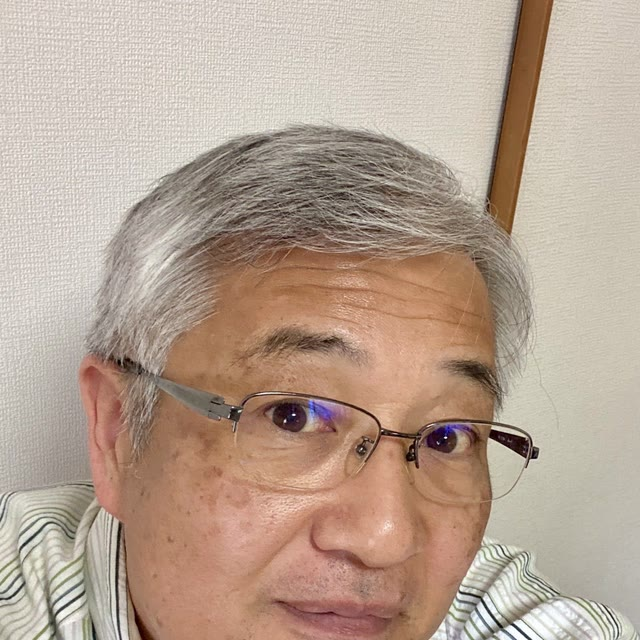
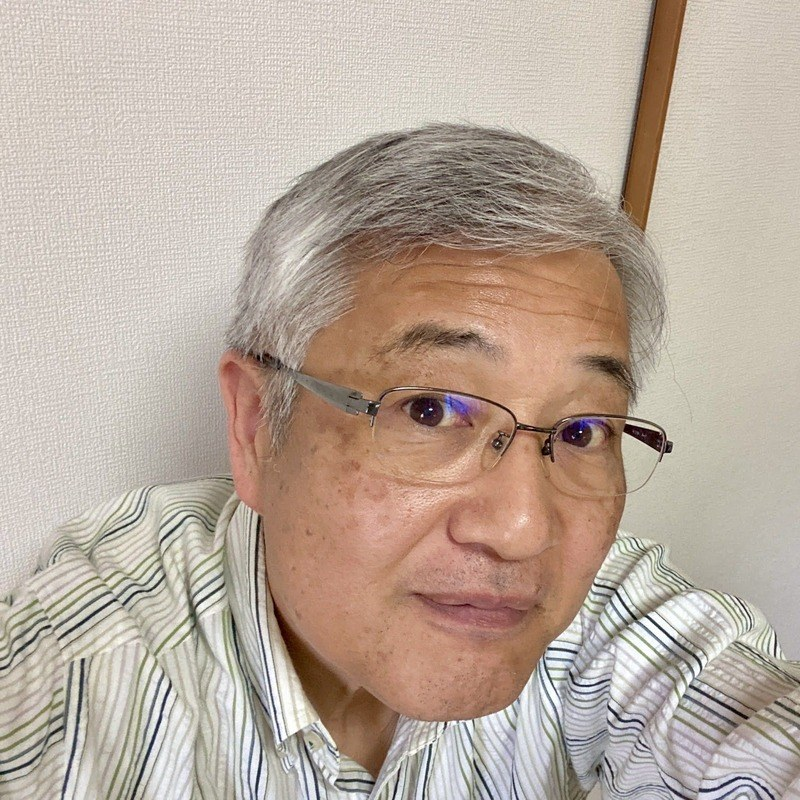
ペアレントトレーニング: 近影の切り直しと進学相談を追加
加藤近影は頭頂が切れない構図に差し替え。担当欄の表示位置も調整。
相談できることに進学相談を追加。

diff --git a/leo/parent-training/index.html b/leo/parent-training/index.html
@@ -13,7 +13,7 @@
 <link rel="preconnect" href="https://fonts.googleapis.com"><link rel="preconnect" href="https://fonts.gstatic.com" crossorigin>
 <link href="https://fonts.googleapis.com/css2?family=Inter:wght@400;500;600&family=Noto+Sans+JP:wght@400;500;600&display=swap" rel="stylesheet">
 <link rel="stylesheet" href="../../assets/site.css">
-<script type="application/ld+json">{"@context": "https://schema.org", "@graph": [{"@type": "Organization", "@id": "https://www.psr-seishinkai.org/#org", "name": "一般社団法人 心理社会的リハビリテーション・星心会", "alternateName": "星心会", "url": "https://www.psr-seishinkai.org/", "telephone": "059-315-0697", "address": {"@type": "PostalAddress", "postalCode": "512-8048", "addressCountry": "JP", "addressRegion": "三重県", "addressLocality": "四日市市", "streetAddress": "山城町59-4"}, "areaServed": ["四日市市", "三重県", "名古屋市", "愛知県"], "sameAs": ["https://x.com/gcbfhq", "https://www.instagram.com/psr_seishinkai/", "https://www.threads.com/@psr_seishinkai"], "logo": "https://www.psr-seishinkai.org/img/logo_black.svg"}, {"@type": "Service", "name": "ペアレントトレーニング", "description": "アドラー心理学に基づくペアレントトレーニング「アドペア」です。", "parentOrganization": {"@id": "https://www.psr-seishinkai.org/#org"}, "telephone": "059-315-0697", "url": "https://www.psr-seishinkai.org/leo/parent-training/"}, {"@type": "FAQPage", "mainEntity": [{"@type": "Question", "name": "レオを利用していなくても相談できますか？", "acceptedAnswer": {"@type": "Answer", "text": "相談できます。1回4,000円です。"}}, {"@type": "Question", "name": "どんなことを相談できますか？", "acceptedAnswer": {"@type": "Answer", "text": "子育てのこと、学校とのかかわり、家族関係などをお聴きします。"}}, {"@type": "Question", "name": "発達検査と組み合わせられますか？", "acceptedAnswer": {"@type": "Answer", "text": "組み合わせられます。"}}]}]}</script>
+<script type="application/ld+json">{"@context": "https://schema.org", "@graph": [{"@type": "Organization", "@id": "https://www.psr-seishinkai.org/#org", "name": "一般社団法人 心理社会的リハビリテーション・星心会", "alternateName": "星心会", "url": "https://www.psr-seishinkai.org/", "telephone": "059-315-0697", "address": {"@type": "PostalAddress", "postalCode": "512-8048", "addressCountry": "JP", "addressRegion": "三重県", "addressLocality": "四日市市", "streetAddress": "山城町59-4"}, "areaServed": ["四日市市", "三重県", "名古屋市", "愛知県"], "sameAs": ["https://x.com/gcbfhq", "https://www.instagram.com/psr_seishinkai/", "https://www.threads.com/@psr_seishinkai"], "logo": "https://www.psr-seishinkai.org/img/logo_black.svg"}, {"@type": "Service", "name": "ペアレントトレーニング", "description": "アドラー心理学に基づくペアレントトレーニング「アドペア」です。", "parentOrganization": {"@id": "https://www.psr-seishinkai.org/#org"}, "telephone": "059-315-0697", "url": "https://www.psr-seishinkai.org/leo/parent-training/"}, {"@type": "FAQPage", "mainEntity": [{"@type": "Question", "name": "レオを利用していなくても相談できますか？", "acceptedAnswer": {"@type": "Answer", "text": "相談できます。1回4,000円です。"}}, {"@type": "Question", "name": "どんなことを相談できますか？", "acceptedAnswer": {"@type": "Answer", "text": "子育てのこと、学校とのかかわり、家族関係、進学相談などをお聴きします。"}}, {"@type": "Question", "name": "発達検査と組み合わせられますか？", "acceptedAnswer": {"@type": "Answer", "text": "組み合わせられます。"}}]}]}</script>
 </head>
 <body>
 <header class="gh"><a class="logo" href="../../"><img src="../../img/mark_black.svg" alt=""><span>星心会</span></a>
@@ -25,7 +25,7 @@
 <section class="hero short"><div class="bg" style="background-image:url(../../img/pt-classroom.jpg);background-position:50% 50%"></div><div class="hin"><p class="en">PARENT TRAINING</p><h1 class="long">ペアレントトレーニング</h1>
 <p class="copy"><span>アドラー心理学で、</span><span>育児のモヤモヤを、</span><span>解決します。</span></p><p class="sub">アドラー心理学に基づくペアレントトレーニング「アドペア」です。カウンセラーが、あなたの話を丁寧にお聴きします。</p></div>
 <p class="acc"></p></section><div class="dark"><section class="blk wide" id="what"><div class="h"><span class="en">WHAT</span><h2>相談できる<br>こと</h2><p>押すと内容が表示されます。</p></div>
-    <div><div class="chips"><button data-a="毎日の関わり方や、お子さまの気になる様子についてお話しください。">子育てのこと</button><button data-a="先生とのやりとりや、登校のことなど、学校との関係についてお聴きします。">学校とのかかわり</button><button data-a="ご家族の間のことも、あわせてご相談いただけます。">家族関係</button></div><p class="ans" style="white-space:pre-line">押すと内容が表示されます。</p></div></section></div><section class="blk" id="flow"><div class="h"><span class="en">PROCESS</span><h2>進め方</h2><p>ボタンで一段ずつ進みます。</p></div>
+    <div><div class="chips"><button data-a="毎日の関わり方や、お子さまの気になる様子についてお話しください。">子育てのこと</button><button data-a="先生とのやりとりや、登校のことなど、学校との関係についてお聴きします。">学校とのかかわり</button><button data-a="ご家族の間のことも、あわせてご相談いただけます。">家族関係</button><button data-a="中学・高校など、次の学校への進み方や選び方の迷いについてお聴きします。">進学相談</button></div><p class="ans" style="white-space:pre-line">押すと内容が表示されます。</p></div></section></div><section class="blk" id="flow"><div class="h"><span class="en">PROCESS</span><h2>進め方</h2><p>ボタンで一段ずつ進みます。</p></div>
     <div class="steps" data-cta="#contact"><script type="application/json">[["CONTACT", "予約", "電話またはLINEでご予約ください。"], ["SESSION", "相談", "カウンセラーが、お話を丁寧にお聴きします。"], ["HOME", "家庭で", "話して整理したことを、ご家庭で試します。"]]</script><div class="sbar"></div>
     <div class="card"><div class="num"></div><div class="k"></div><h3></h3><p></p><div class="ctl"><button class="ghost prev">もどる</button><button class="btn next">次へ</button></div></div></div></section><section class="blk wide" id="voice"><div class="h"><span class="en">VOICE</span><h2>保護者の声</h2></div><blockquote style="margin:0;padding:0 0 0 1.2em;border-left:3px solid currentColor;line-height:1.9"><div style="margin:0 0 1em">加藤先生は、聞いてくれるだけでなく「こうしてみたら」と言ってもらえたので良かったです。</div><div style="margin:0 0 1em">学校に行きたくない、という悩みに対して、「行ってくれたら何かしてあげる」では効果がありませんでした。本人に学校で不安なことをひとつひとつ確認して解決していくと、なんとか行けるようになっています。</div><div style="opacity:.7;font-size:14px">— 保護者</div></blockquote></section><section class="blk wide" id="info"><div class="h"><span class="en">INFORMATION</span><h2>対象・費用・場所</h2></div><dl class="info"><dt>担当</dt><dd class="who"><img src="../../img/kato.jpg" alt="加藤幸弘" width="640" height="640"><span class="cap">加藤幸弘</span><span class="bio">加藤幸弘（公認心理師、学校心理士、日本アドラー心理学会認定カウンセラー。三重県公立小中学校スクールカウンセラー、元三重県教育委員会勤務）</span></dd><dt>日程</dt><dd>水曜午前（予約制）</dd><dt>費用</dt><dd>レオの利用者とそのご家族は無料です。それ以外の方は1回4,000円です。</dd></dl></section><div class="rel"><span class="en">RELATED</span><div class="two"><a class="btn" style="text-align:center;letter-spacing:.1em" href="../../leo/assessment/">発達検査 →</a><a class="btn" style="text-align:center;letter-spacing:.1em" href="../../leo/">レオ →</a></div></div><section class="cta" id="contact"><p class="en" style="color:var(--hi)">CONTACT</p><h2>相談を予約する</h2>
 <div class="row"><a class="w" href="../../contact/#line">LINE</a><a class="o" href="tel:0593150697">電話</a></div><a class="tnum" href="tel:0593150697">059-315-0697</a></section><footer class="gf"><div class="in">

diff --git a/assets/site.css b/assets/site.css
@@ -238,7 +238,7 @@ details summary{font-weight:500}
 .hero:has(h1.deco)+.blk{padding-top:28px}.hero:has(h1.deco)+.blk .prose>h3:first-child{margin-top:0!important}
 /* portrait beside 担当 — square, left, no extra section gap */
 dd.who{display:grid;grid-template-columns:96px minmax(0,1fr);grid-template-areas:"img cap" "bio bio";gap:6px 12px;align-items:end}
-dd.who img{grid-area:img;width:96px;height:96px;object-fit:cover;object-position:50% 42%;align-self:start}
+dd.who img{grid-area:img;width:96px;height:96px;object-fit:cover;object-position:center top;align-self:start}
 dd.who .cap{grid-area:cap;font-size:13px;font-weight:600;line-height:1.35;letter-spacing:.02em}
 dd.who .bio{grid-area:bio}
 @media(min-width:900px){

diff --git a/content/leo-parent-training.md b/content/leo-parent-training.md
@@ -28,6 +28,10 @@
 
 ご家族の間のことも、あわせてご相談いただけます。
 
+### 進学相談
+
+中学・高校など、次の学校への進み方や選び方の迷いについてお聴きします。
+
 ## 進め方
 
 ### 予約
@@ -72,7 +76,7 @@
 
 ### どんなことを相談できますか？
 
-子育てのこと、学校とのかかわり、家族関係などをお聴きします。
+子育てのこと、学校とのかかわり、家族関係、進学相談などをお聴きします。
 
 ### 発達検査と組み合わせられますか？
 
